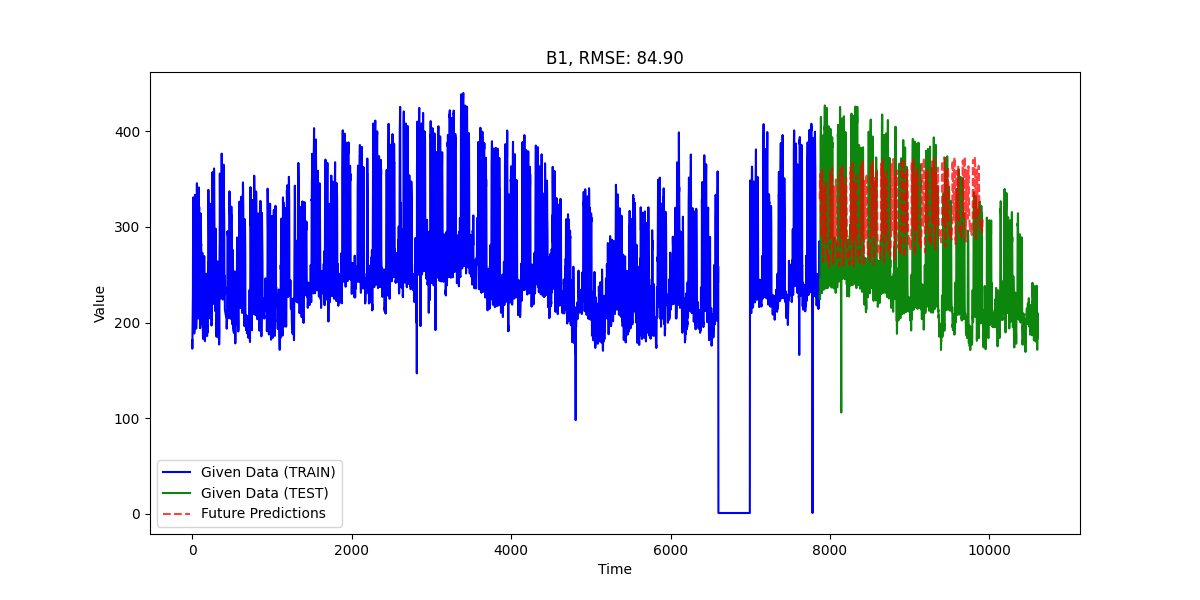
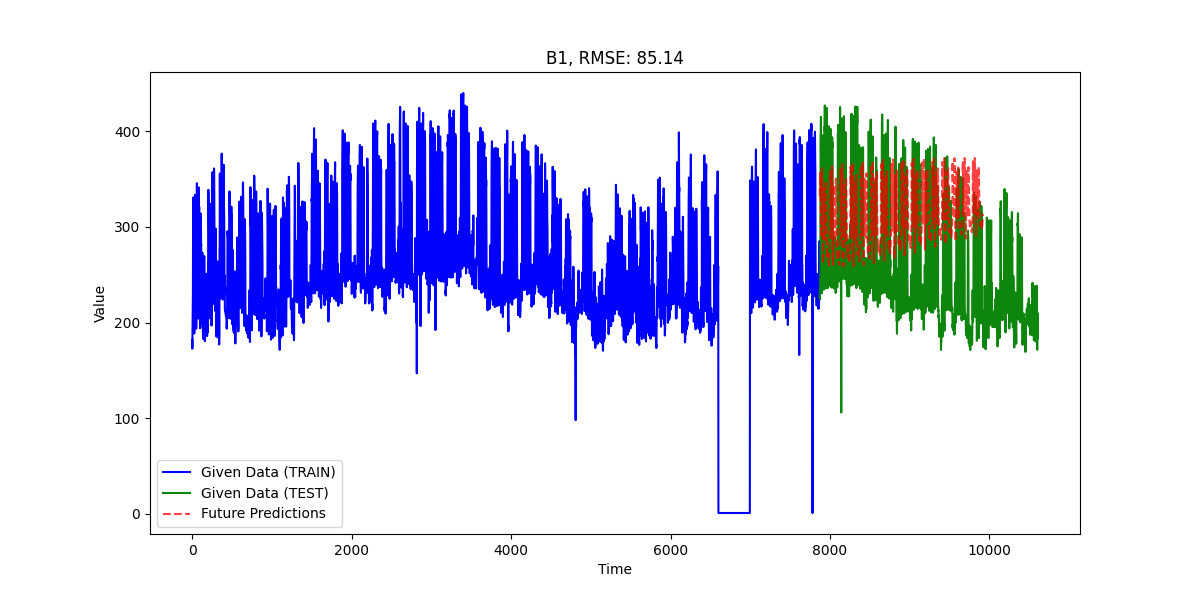
cross val and TAF apply

Changed region(s): [[0.6783, 0.27, 0.8325, 0.45], [0.5242, 0.09, 0.5858, 0.12]]

diff --git a/Model/run_tests.py b/Model/run_tests.py
@@ -1,5 +1,6 @@
 import time
 import math
+import traceback
 import numpy as np
 import pandas as pd
 import tensorflow as tf
@@ -49,11 +50,11 @@ def run():
     # activation = 'tanh'  # or 'relu' but relu is shit
     # dropout = 0.1
 
-    batch_size_list = [128, 256]
-    # batch_size_list = [256]
+    # batch_size_list = [128, 256]
+    batch_size_list = [256]
     # look_back_list  = [5000, 6000]
     look_back_list  = [6000]
-    epoch_list      = [1, 8, 10, 12, 14, 16, 18, 20, 22, 24]
+    epoch_list      = list(range(18, 100, 2))
     # headroom_list   = [1.0, 0.5, 0.6, 0.7, 0.8, 0.9, 1.1, 1.2, 1.3, 1.4, 1.5, 1.6, 1.7, 1.8, 1.9, 2.0]
     headroom_list   = [1.0]
     dropout_list    = [0]
@@ -71,44 +72,44 @@ def run():
 
         curr_dataset = df[curr_system].values.reshape(-1, 1).astype('float32')
 
-        curr_dir = 'results1'
+        curr_dir = 'results2'
 
         for bs in batch_size_list:
             for lb in look_back_list:
                 for ep in epoch_list:
                     for hm in headroom_list:
                         for do in dropout_list:
-                            # try:
-                            # look_back = lb
-                            batch_size = bs
-                            epochs = ep
-                            headroom = hm
-                            dropout = do
+                            try:
+                                # look_back = lb
+                                batch_size = bs
+                                epochs = ep
+                                headroom = hm
+                                dropout = do
 
-                            forecast_horizon = 2000    # number of points to forecast per fold
-                            initial_train_size = 8000  # choose your training size
-                            step_size = 0           # roll the window forward by this many points
+                                forecast_horizon = 2000    # number of points to forecast per fold
+                                initial_train_size = 8000  # choose your training size
+                                step_size = 0           # roll the window forward by this many points
 
-                            look_back = math.ceil(initial_train_size*0.6)
+                                look_back = math.ceil(initial_train_size*0.6)
 
-                            model_params = {'look_back': look_back,
-                                            'batch_size': batch_size,
-                                            'epochs': epochs,
-                                            'headroom': headroom,
-                                            'dropout': dropout,
-                                            'layers': layers,
-                                            'neurons': neurons,
-                                            'activation': activation}
+                                model_params = {'look_back': look_back,
+                                                'batch_size': batch_size,
+                                                'epochs': epochs,
+                                                'headroom': headroom,
+                                                'dropout': dropout,
+                                                'layers': layers,
+                                                'neurons': neurons,
+                                                'activation': activation}
 
-                            model, train_data_inverted, train_end, test_end, forecasted_inverted, rmse_list = time_series_cross_validation(curr_dataset, model_params, forecast_horizon, initial_train_size, step_size)
+                                model, train_data_inverted, train_end, test_end, forecasted_inverted, rmse_list = time_series_cross_validation(curr_dataset, model_params, forecast_horizon, initial_train_size, step_size)
 
-                            visualizer = Visualizer(scaler=model[0].scaler,
-                                                    trained_model=model[1],
-                                                    forecast_engine=model[2])
-                            visualizer.plot_results(np.mean(rmse_list), train_data_inverted, train_end, test_end, forecasted_inverted, curr_dataset, curr_system, results_dir+curr_dir)
+                                visualizer = Visualizer(scaler=model[0].scaler,
+                                                        trained_model=model[1],
+                                                        forecast_engine=model[2])
+                                visualizer.plot_results(np.mean(rmse_list), train_data_inverted, train_end, test_end, forecasted_inverted, curr_dataset, curr_system, results_dir+curr_dir)
 
-                            print("Cross-Validation RMSEs:", rmse_list)
-                            print("Mean RMSE:", np.mean(rmse_list))
+                                print("Cross-Validation RMSEs:", rmse_list)
+                                print("Mean RMSE:", np.mean(rmse_list))
 
                                 # # 2. Data Preprocessing
                                 # data_preprocessor = DataPreprocessor(headroom=headroom)
@@ -162,9 +163,10 @@ def run():
                                 #                         forecast_engine=forecast_engine)
                                 
                                 # visualizer.plot_results(curr_dataset, trainY, curr_system, results_dir+curr_dir)
-                            # except Exception as e:
-                            #     print("ERROR! Details:", e)
-                            #     continue
+                            except Exception as e:
+                                print("ERROR! Details: ")
+                                traceback.print_exc()
+                                continue
 
 if __name__ == "__main__":
     run()

diff --git a/Model/src/cross_validation.py b/Model/src/cross_validation.py
@@ -38,16 +38,14 @@ def time_series_cross_validation(curr_dataset, model_params, forecast_horizon, i
     trainX = np.reshape(dataX, (dataX.shape[0], dataX.shape[1], 1))
     trainY = dataY
 
-    lstm_model = LSTMModel(
-        layers=model_params['layers'],
-        isReturnSeq=False,
-        look_back=model_params['look_back'],
-        batch_size=model_params['batch_size'],
-        neurons=model_params['neurons'],
-        epochs=model_params['epochs'],
-        activation=model_params['activation'],
-        dropout=model_params['dropout']
-    )
+    lstm_model = LSTMModel(layers=model_params['layers'],
+                            isReturnSeq=False,
+                            look_back=model_params['look_back'],
+                            batch_size=model_params['batch_size'],
+                            neurons=model_params['neurons'],
+                            epochs=model_params['epochs'],
+                            activation=model_params['activation'],
+                            dropout=model_params['dropout'])
     lstm_model.train(trainX, trainY)
     trainPredict = lstm_model.predict(trainX)
 
@@ -64,5 +62,5 @@ def time_series_cross_validation(curr_dataset, model_params, forecast_horizon, i
     rmse = calculate_rmse(forecasted_inverted[:, 0], test_data[:, 0])
     print(f"Fold RMSE: {rmse:.2f}")
     rmse_list.append(rmse)
-        
+
     return [data_preprocessor, lstm_model, forecast_engine], train_data_inverted, effective_train_end, test_end, forecasted_inverted, rmse_list

diff --git a/Model/src/TAFshift.py b/Model/src/TAFshift.py
@@ -33,4 +33,14 @@ class TAFShift:
 
         
         # return taf_values.reshape(-1, 1), taf_values[-len(predictions_array):].reshape(-1, 1)
-        return taf_values, taf_values[len(data):]
+        # return taf_values, taf_values[len(data):]
+        return taf_values.reshape(-1, 1), taf_values[len(data):].reshape(-1, 1)
+
+    def apply_taf(self, forecasted, historical_data, weight=1.0):
+        _, predicted_taf = self.calculate_taf(historical_data, forecasted)
+        # may not be needed
+        # predicted_taf = predicted_taf.reshape(-1, 1)
+        predicted_taf = predicted_taf
+
+        adjusted_forecast = forecasted * (1 + weight * predicted_taf)
+        return adjusted_forecast
